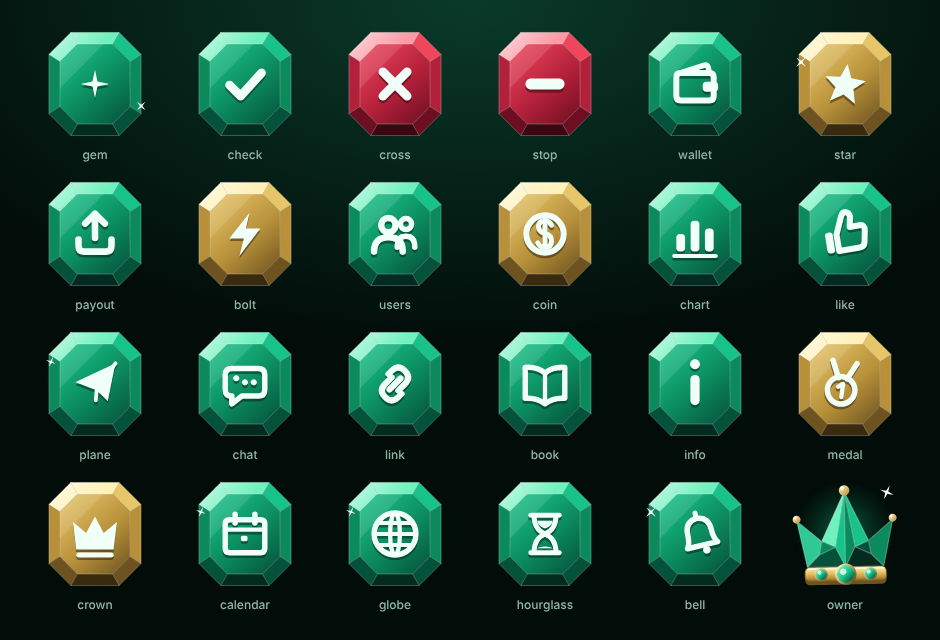
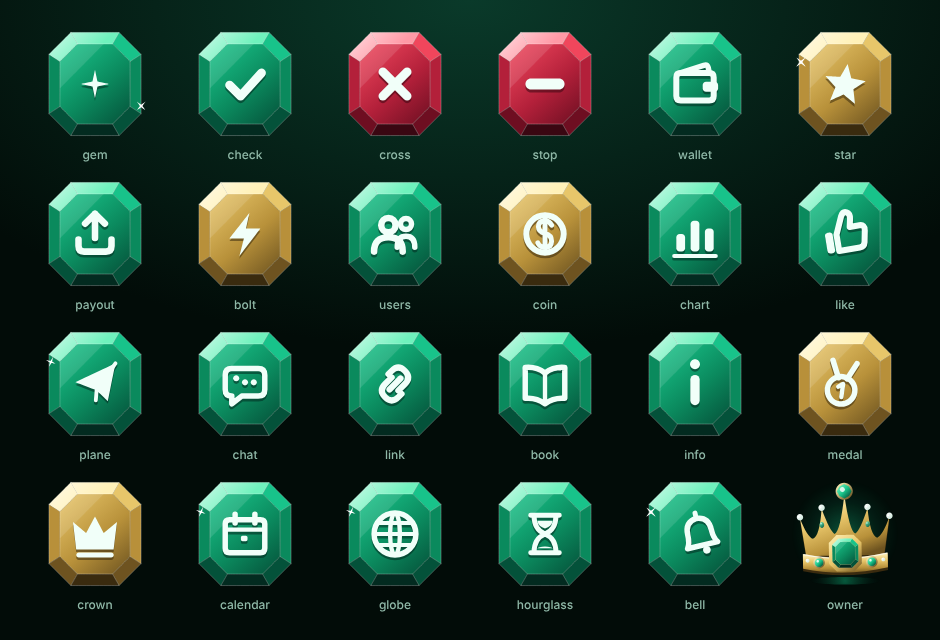
Redesign owner emoji: gold royal crown with a large emerald-cut stone
Claude-Session: https://claude.ai/code/session_014DoNtX2rrtAyDc8Z3AUM1P

Changed region(s): [[0.833, 0.75, 0.9564, 0.9375]]

diff --git a/cards/tools/emoji_build.py b/cards/tools/emoji_build.py
@@ -463,78 +463,85 @@ def icon_bell():
                                                (68, 0), (OP, 0)]), "a": (50, 31), "p": (50, 31)}
 
 
-# ---------------------------------------------------------------- owner: crown cut from emerald
+# ---------------------------------------------------------------- owner: royal crown
 def owner_layers():
-    """Unique emoji for the project owners: an emerald-cut crown on a gold band, turning
-    a soft halo behind it, a glint across the stone and twinkling gold tips."""
-    c1, c2, c3, c4, c5 = THEMES["emerald"]
-    g1, g2, g3, g4, _ = THEMES["gold"]
-    A, B, C, D, E = (11, 37), (31, 54), (50, 14), (69, 54), (89, 37)
-    G, H, Mb = (19, 75), (81, 75), (50, 75)
-    L, Q, R, S = (29, 65), (42, 59), (58, 59), (71, 65)
-    outline = [A, B, C, D, E, H, G]
-    facets = [([A, B, L, G], c2), ([B, Q, L], c3), ([B, C, Q], c1), ([C, Mb, Q], c2), ([C, R, Mb], c3),
-              ([C, D, R], c2), ([D, S, R], c4), ([D, E, H, S], c3), ([G, L, Q, Mb], c4), ([Mb, R, S, H], c5)]
-    float_p = anim([(0, [50, 52], (0.45, 0, 0.55, 1)), (OP / 2, [50, 49.5], (0.45, 0, 0.55, 1)), (OP, [50, 52])])
-    big = (112, 112)
-    tilt = anim([(0, 0, (0.45, 0, 0.55, 1)), (OP / 4, -3, (0.45, 0, 0.55, 1)), (OP * 3 / 4, 3, (0.45, 0, 0.55, 1)), (OP, 0)])
+    """Unique emoji for the project owners: a gold royal crown with pearl tips, an emerald on the
+    centre point and a large emerald-cut stone (the brand gem from the cards) set in the front."""
+    c = THEMES["emerald"]
+    c1, c2, c3, c4, c5 = c
+    g1, g2, g3, g4, g5 = THEMES["gold"]
+    ease = (0.45, 0, 0.55, 1)
 
-    crown = []
-    # edges
-    lines = [poly(outline)] + [poly([a, b], False) for a, b in
-                               [(B, L), (B, Q), (Q, L), (C, Q), (C, Mb), (C, R), (R, D), (R, S), (S, D), (Q, Mb), (R, Mb), (L, G), (S, H)]]
-    crown.append(group(lines + [stroke("#ffffff", 0.9, 30)], "edges"))
-    # glint sweeping across the stone (frames 40-85 and a softer one at 120-160)
-    sweep = lambda a0, a1: anim([(0, a0), (40, a0, (0.5, 0, 0.5, 1)), (85, a1, HOLD), (86, a0), (120, a0, (0.5, 0, 0.5, 1)),
-                                 (160, a1), (OP, a1)])
-    crown.append(group([poly(outline), gfill([(0, "#ffffff"), (1, "#ffffff")], sweep([-50, -10], [80, 40]),
-                                             sweep([0, 30], [130, 80]),
-                                             alpha=[(0, 0), (0.36, 0), (0.5, 0.7), (0.64, 0), (1, 0)])], "shine"))
-    crown.append(group([poly([A, B, L, G])] + [fill("#ffffff", 10)], "gloss"))
-    for n, (pts, col) in enumerate(facets):
-        crown.append(group([poly(pts), fill(col)], f"facet{n}"))
+    body = ("M16,68 L11,35 Q17,51 22,53 Q28,51 30,27 Q37,47 41,49 Q46,47 50,15 "
+            "Q54,47 59,49 Q63,47 70,27 Q72,51 78,53 Q83,51 89,35 L84,68 Z")
+    band = "M13,66 Q50,74 87,66 L87,79 Q50,87 13,79 Z"
 
-    # gold band with three small emeralds
-    band = []
-    for n, x in enumerate((30, 50, 70)):
-        tw = anim([(0, [100, 100]), (30 + n * 14, [100, 100], (0.4, 0, 0.3, 1.6)), (40 + n * 14, [135, 135]),
-                   (56 + n * 14, [100, 100]), (OP, [100, 100])])
-        k = 1.45 if n == 1 else 0.9                                     # big centre stone, two small ones
-        gem = star_pts(0, 0, 5.2 * k, 5.2 * k * 0.92, n=4, rot=-90)  # octagon-ish stone
-        band.append(group([poly(star_pts(0, 0, 2 * k, 2 * k * 0.92, n=4, rot=-90)), fill("#ffffff", 75)], f"glint{n}",
-                          p=(x - 1.5 * k, 79.6 - 0.4 * k), s=tw))
-        band.append(group([poly(gem), gfill([(0, c1), (0.5, c2), (1, c4)], (-4 * k, -4 * k), (4 * k, 4 * k))], f"stone{n}",
-                          p=(x, 81), s=tw))
-        band.append(group([ellipse(x, 81, 12 * k)] + [gfill([(0, g1), (1, g4)], (x - 5 * k, 76), (x + 5 * k, 86))], f"set{n}"))
-    band.append(group([poly([(19, 76.5), (81, 76.5)], False)] + [stroke("#ffffff", 1.2, 70)], "band-light"))
-    band.append(group([rect(50, 81, 66, 12, 4)] + [stroke(g4, 1, 60)], "band-edge"))
-    band.append(group([rect(50, 81, 66, 12, 4), gfill([(0, g1), (0.4, g2), (0.75, g3), (1, g4)], (50, 75), (50, 87))], "band"))
-    band.append(group([rect(50, 83.5, 66, 12, 4), fill(g4)], "band-depth"))
+    def glint(t0, t1):   # white stripe sliding across, transparent elsewhere
+        s_a = anim([(0, [-20, -10]), (t0, [-20, -10], (0.5, 0, 0.5, 1)), (t1, [90, 30])])
+        e_a = anim([(0, [10, 20]), (t0, [10, 20], (0.5, 0, 0.5, 1)), (t1, [120, 60])])
+        return gfill([(0, "#ffffff"), (1, "#ffffff")], s_a, e_a, alpha=[(0, 0), (0.4, 0), (0.5, 0.7), (0.6, 0), (1, 0)])
 
-    # gold balls on the tips
+    gold = []
+    # front: big emerald in a gold bezel, side stones, pearls on the band
+    stone = group(gem_shapes(c, 110), "emerald", p=(50, 66), a=(50, 50), s=(27, 27))
+    bezel = group([poly(OUTER), gfill([(0, g1), (0.5, g2), (1, g4)], (10, 0), (90, 100))], "bezel",
+                  p=(50, 66), a=(50, 50), s=(34, 34))
+    side = []
+    for n, x in enumerate((27, 73)):
+        y = 73.9
+        tw = anim([(0, [100, 100]), (130 + n * 12, [100, 100], (0.4, 0, 0.3, 1.6)), (140 + n * 12, [130, 130]),
+                   (156 + n * 12, [100, 100]), (OP, [100, 100])])
+        side.append(group([ellipse(-1.2, -1.3, 2.2), fill("#ffffff", 85)], f"sg{n}", p=(x, y), s=tw))
+        side.append(group([ellipse(0, 0, 7.5), gfill([(0, c1), (0.5, c2), (1, c4)], (-3, -3), (3, 3))], f"side{n}", p=(x, y), s=tw))
+        side.append(group([ellipse(0, 0, 10), gfill([(0, g1), (1, g4)], (-4, -4), (4, 4))], f"sset{n}", p=(x, y)))
+    pearls = []
+    for x in (17, 37.5, 62.5, 83):
+        y = 72.6 + (0.9 if x in (37.5, 62.5) else -0.6)
+        pearls.append(group([ellipse(x - 0.6, y - 0.7, 1.2), fill("#ffffff")], "ph"))
+        pearls.append(group([ellipse(x, y, 3.4), gfill([(0, "#ffffff"), (1, "#cfe9dc")], (x - 1.5, y - 1.5), (x + 1.5, y + 1.5))], "pearl"))
+    gold += [stone, bezel] + side + pearls
+    # band
+    gold.append(group(path("M14,66.6 Q50,74.4 86,66.6") + [stroke("#ffffff", 1, 65)], "band-light"))
+    gold.append(group(path(band) + [glint(40, 85)], "band-glint"))
+    gold.append(group(path(band) + [gfill([(0, g1), (0.35, g2), (0.7, g3), (1, g4)], (50, 67), (50, 84))], "band"))
+    # spike gems and the emerald on the centre point
+    for n, (x, y) in enumerate(((30, 41), (70, 41))):
+        gold.append(group([ellipse(x - 0.7, y - 1, 1.4), fill("#ffffff", 80)], f"kg{n}"))
+        gold.append(group([ellipse(x, y, 4, 5.2), gfill([(0, c1), (1, c4)], (x - 2, y - 2.5), (x + 2, y + 2.5))], f"kgem{n}"))
+    # body with glint, inner emboss and depth
+    gold.append(group(path(body) + [glint(40, 85)], "body-glint"))
+    gold.append(group(path(body) + [gfill([(0, g1), (0.35, g2), (0.75, g3), (1, g4)], (40, 15), (60, 70))], "body"))
+    gold.append(group(path(body) + [fill(g5)], "body-depth", p=(0, 2.2)))
+    gold.append(group(path(band) + [fill(g5)], "band-depth", p=(0, 2.2)))
+
     tips = []
-    for n, (x, y) in enumerate((A, C, E)):
-        r = 8.5 if n == 1 else 6.5
-        glow = anim([(0, [100, 100]), (60 + n * 10, [100, 100], (0.4, 0, 0.3, 1.6)), (70 + n * 10, [125, 125]),
-                     (90 + n * 10, [100, 100]), (OP, [100, 100])])
-        tips.append(group([ellipse(0, 0, r * 0.38), fill("#ffffff", 85)], f"hl{n}", p=(x - r * 0.18, y - r * 0.2 - 1)))
-        tips.append(group([ellipse(0, 0, r), gfill([(0, g1), (1, g3)], (-r / 2, -r / 2), (r / 2, r / 2))],
-                          f"tip{n}", p=(x, y - 1), s=glow))
+    for n, (x, y) in enumerate(((11, 35), (30, 27), (70, 27), (89, 35))):
+        tips.append(group([ellipse(x - 1, y - 1.3, 1.6), fill("#ffffff")], f"th{n}"))
+        tips.append(group([ellipse(x, y - 1, 5.6), gfill([(0, "#ffffff"), (1, "#c9e6d8")], (x - 2.5, y - 3.5), (x + 2.5, y + 1.5))],
+                          f"tip{n}"))
+    crown_gem = group([poly(star_pts(0, 0, 6.4, 6.4 * 0.92, n=4, rot=-90)),
+                       gfill([(0, c1), (0.5, c2), (1, c4)], (-5, -5), (5, 5))], "top-gem", p=(50, 12))
+    top_hl = group([poly(star_pts(0, 0, 2.4, 2.4 * 0.92, n=4, rot=-90)), fill("#ffffff", 80)], "top-hl", p=(48.4, 10.4))
+    top_set = group([ellipse(50, 12, 15), gfill([(0, g1), (1, g4)], (44, 6), (56, 18))], "top-set")
+    tips = [top_hl, crown_gem, top_set] + tips
 
-    halo = group([ellipse(0, 0, 92), gfill([(0, c2), (1, c3)], (0, 0), (46, 0), alpha=[(0, 0.45), (1, 0)], radial=True)], "halo")
-    shadow = group([ellipse(50, 92, 60, 8), gfill([(0, c2), (1, c4)], (50, 92), (80, 92), alpha=[(0, 0.5), (1, 0)], radial=True)],
+    float_p = anim([(0, [50, 51], ease), (OP / 2, [50, 48.5], ease), (OP, [50, 51])])
+    tilt = anim([(0, 0, ease), (OP / 4, -2.5, ease), (OP * 3 / 4, 2.5, ease), (OP, 0)])
+    size = anim([(0, [104, 104], ease), (OP / 2, [107, 107], ease), (OP, [104, 104])])
+
+    halo = group([ellipse(0, 0, 96), gfill([(0, c2), (1, c3)], (0, 0), (48, 0), alpha=[(0, 0.4), (0.6, 0.12), (1, 0)], radial=True)],
+                 "halo")
+    shadow = group([ellipse(50, 93, 64, 7), gfill([(0, c3), (1, c5)], (50, 93), (82, 93), alpha=[(0, 0.6), (1, 0)], radial=True)],
                    "shadow")
 
     layers = []
-    for n, (x, y, size, t0) in enumerate([(88, 12, 8, 10), (8, 20, 6, 60), (94, 62, 5, 110), (6, 64, 5, 135)]):
-        layers.append(sparkle(10 + n, x, y, size, t0))
-    layers.append(layer("tips", tips, 2, p=float_p, a=(50, 50), s=big, r=tilt))
-    layers.append(layer("band", band, 3, p=float_p, a=(50, 50), s=big, r=tilt))
-    layers.append(layer("crown", crown, 4, p=float_p, a=(50, 50), s=big, r=tilt))
-    layers.append(layer("shadow", [shadow], 5,
-                        s=anim([(0, [100, 100], (0.45, 0, 0.55, 1)), (OP / 2, [86, 86], (0.45, 0, 0.55, 1)), (OP, [100, 100])])))
-    layers.append(layer("halo", [halo], 7, p=(50, 48), a=(0, 0),
-                        s=anim([(0, [100, 100], (0.45, 0, 0.55, 1)), (OP / 2, [112, 112], (0.45, 0, 0.55, 1)), (OP, [100, 100])])))
+    for n, (x, y, size_, t0) in enumerate([(62, 8, 7, 20), (90, 20, 5, 70), (8, 22, 5, 115), (60, 60, 6, 135)]):
+        layers.append(sparkle(10 + n, x, y, size_, t0))
+    layers.append(layer("tips", tips, 2, p=float_p, a=(50, 50), s=size, r=tilt))
+    layers.append(layer("crown", gold, 3, p=float_p, a=(50, 50), s=size, r=tilt))
+    layers.append(layer("shadow", [shadow], 5, s=anim([(0, [100, 100], ease), (OP / 2, [88, 88], ease), (OP, [100, 100])])))
+    layers.append(layer("halo", [halo], 6, p=(50, 50), a=(0, 0),
+                        s=anim([(0, [100, 100], ease), (OP / 2, [112, 112], ease), (OP, [100, 100])])))
     return layers
 
 
@@ -563,7 +570,7 @@ EMOJI = {
     "globe":     ("🌐", "emerald", icon_globe, 100),
     "hourglass": ("⏳", "emerald", icon_hourglass, 60),
     "bell":      ("🔔", "emerald", icon_bell, 90),
-    "owner":     ("👑", "emerald", None, 0),     # unique: crown cut from emerald, for the project owners
+    "owner":     ("👑", "emerald", None, 0),     # unique: gold royal crown with emeralds, for the project owners
 }
 
 SPARKLES = [(86, 10, 9, 0), (10, 30, 6, 50), (92, 70, 5.5, 100), (14, 88, 5, 140)]

diff --git a/cards/bot/README.md b/cards/bot/README.md
@@ -59,9 +59,10 @@ with a white icon, a light glint and sparkles. They're 3-second loops in Telegra
 Frame 0 is always the complete icon, so the emoji also reads correctly when animations are off.
 Preview: `../emoji_preview.gif`.
 
-`owner` is a one-off emoji for the project owners. Instead of an icon on a stone, the crown itself is
-cut from emerald and sits on a gold band with a large centre emerald and two small ones. A glint
-runs across the facets, the gold tips sparkle and a soft halo breathes behind it. Preview: `../emoji_owner.gif`.
+`owner` is a one-off emoji for the project owners: a gold royal crown with pearls on the points
+and an emerald on the centre point. A large emerald-cut stone, the same one as on the cards, is set in
+the front, with two round emeralds on the band. Light glides over the gold, the big stone flashes, the
+crown floats gently on a soft emerald halo and sparkles appear around it. Preview: `../emoji_owner.gif`.
 
 | name | emoji | | name | emoji | | name | emoji |
 |---|---|---|---|---|---|---|---|
